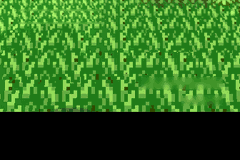
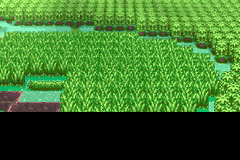
0.17.3: no zoomed tall-grass backdrop anywhere (Route 120 overlook; other tall grass incl. Mew uses the Route 119 overlook)
Claude-Session: https://claude.ai/code/session_014PwRDjXGcLJqqHGfgN6Bdc

diff --git a/src/battle_bg.c b/src/battle_bg.c
@@ -88,7 +88,11 @@ static const struct WJ3DBackdrop *WJ3D_GetBackdrop(u32 environment)
     if (!WJ_3D_BATTLE_BACKGROUNDS || ARRAY_COUNT(sWJ3DBackdrops) == 0 || WJ_ClassicGfx(WJGFX_3D_BACKGROUNDS))
         return NULL;
     if (gBattleTypeFlags & (BATTLE_TYPE_FRONTIER | BATTLE_TYPE_LINK | BATTLE_TYPE_RECORDED_LINK
-                          | BATTLE_TYPE_EREADER_TRAINER | BATTLE_TYPE_LEGENDARY | BATTLE_TYPE_SECRET_BASE))
+                          | BATTLE_TYPE_EREADER_TRAINER | BATTLE_TYPE_SECRET_BASE))
+        return NULL;
+    // Legendary battles keep their own backgrounds, except in tall grass (Mew on Faraway Island),
+    // where the owner wants the tall-grass overlook and never Emerald's old tall-grass picture.
+    if ((gBattleTypeFlags & BATTLE_TYPE_LEGENDARY) && environment != BATTLE_ENVIRONMENT_LONG_GRASS)
         return NULL;
     // Land, caves, indoor wild-battle places (Mt. Pyre's inside, New Mauville) and surfing. Gyms and
     // other special backgrounds keep the stock ones. Only maps with a captured backdrop are affected.
@@ -106,6 +110,18 @@ static const struct WJ3DBackdrop *WJ3D_GetBackdrop(u32 environment)
          && sWJ3DBackdrops[i].mapNum == gSaveBlock1Ptr->location.mapNum
          && WJ3D_EnvironmentMatches(sWJ3DBackdrops[i].environment, environment))
             return &sWJ3DBackdrops[i];
+    }
+    // Tall grass anywhere else (e.g. Faraway Island) uses the Route 119 tall-grass overlook too.
+    if (environment == BATTLE_ENVIRONMENT_LONG_GRASS)
+    {
+        for (i = 0; i < ARRAY_COUNT(sWJ3DBackdrops); i++)
+        {
+            if (sWJ3DBackdrops[i].tiles != NULL
+             && sWJ3DBackdrops[i].mapGroup == MAP_GROUP(MAP_ROUTE119)
+             && sWJ3DBackdrops[i].mapNum == MAP_NUM(MAP_ROUTE119)
+             && sWJ3DBackdrops[i].environment == WJ3D_ANY_ENVIRONMENT)
+                return &sWJ3DBackdrops[i];
+        }
     }
     return NULL;
 }

diff --git a/docs/PROJECT_EMERALD_OVERHAUL.md b/docs/PROJECT_EMERALD_OVERHAUL.md
@@ -95,6 +95,7 @@ All the screens below were recoloured to Emerald green, palette only.
 | 15 | Overworld character shadows | Pawkkie | already built into expansion 1.17 (`OW_OBJECT_VANILLA_SHADOWS FALSE`), nothing to port |
 | 16 | Vol's HGSS-style start menu, green | vol8 `start_menu_1`, HashtagMarky's expansion port | Pokédex icon asks Pokédex/DexNav; Pike/Pyramid/link rooms keep the old menu |
 | 17 | Stat Points (EV allocator), green | Bivurnum `ev-allocator` on TAH's stat editor | no battle EVs; 10 points per level to Lv51; Party → Stat Points; old saves: all EVs reset to 0 once on Continue (in 0.9.3) |
+| 37 | No zoomed tall-grass backdrop anywhere: Route 120 (the only other map with tall grass and the old zoomed capture) now uses an overlook from its 3DS overworld view; any other tall-grass battle without its own backdrop (Faraway Island, incl. the Mew legendary battle) falls back to the Route 119 overlook instead of Emerald's tall-grass picture | ours | Route 120 checked in spring/autumn/winter. Mew battle not reached in a test. In 0.17.3 |
 | 36 | Route 119 tall-grass backdrop is now an overlook (3DS overworld view over the tall grass, river and Weather Institute; player/NPCs painted out, shrunk rather than zoomed), owner picked option B; seasons checked in all 4. Fix: overworld fog (Misty Terrain) and storms (Electric Terrain) no longer swap a 3D backdrop for the stock terrain picture | ours | In 0.17.2 |
 | 35 | Problem 3D backdrops: Phoebe's room, Steven's room, Mirage Tower 4F, Seafloor Cavern 2/8/9, Underwater Routes 124/126 (underwater battles now allowed), Mirage Island, Oceanic Museum 2F, Rustboro City; Abandoned Ship B1F corridor white strip filled; hidden-floor water and Magma Hideout 3F 3R reuse a sibling room's backdrop | ours (Emerald 3DS captures) | The 3DS port runs its own code and only reads our save, so captures set up real encounters (start on grass/seaweed, encounter boost) or the real story battle (flags/vars + trigger). Still stock: Mauville City (Wally) and Space Center 2F (Yes/No prompt needs the 3DS touch screen), Shoal Cave water (no encounter reached). Tested in game: Phoebe, Duncan, Steven's room, Seafloor 2, Rustboro rival. In 0.17.1 |
 | 34 | Options → New/Classic for every new graphic: Battle BG (3D backdrops), Battle Screen (BW UI), Summary (BW), Party Menu (Gen 5), Bag (SwSh), PC Boxes (SwSh), Text Box (SwSh box + name tag), Start Menu, Main Menu, Pokédex (HGSS), Ditto Faces. Saved in SaveBlock3 (`wjGfxMagic`/`wjClassicGfx`); old saves read as all New | ours | `WJ_ClassicGfx(feature)`. BW UI configs are runtime (`WJ_BwBattleUi`), Emerald window templates kept beside the BW ones. Emerald's bag (`item_menu.c`) is built again with its public functions renamed `Classic_*`; the SwSh entry points dispatch to it (Battle Pyramid keeps the SwSh bag). Party/textbox/name-tag Emerald art restored under `graphics/*/classic/`. Emulator: every Classic screen opened (field, start menu, party, summary, bag, wild battle menus/moves/run, Pokédex, PC boxes, nurse text, trainer name tag, save box, main menu → Continue), New screens re-checked. In 0.17.0 |

diff --git a/docs/WALLY_JOURNEY_OWNER_REQUIREMENTS.md b/docs/WALLY_JOURNEY_OWNER_REQUIREMENTS.md
@@ -631,3 +631,4 @@ These are **wishlist items, not claims of implementation**. Adapt the design pri
 | 2026-11-05 | Fixes from play: shiny Stat Points picture, pixelated 3D grass, black boxes when surfing, "on/off in the options to go back to old graphics" (owner: "Make it all toggle-able"), grass rustle should follow the seasons | Shiny picture, surf black boxes and seasonal grass rustle fixed. Options now has New/Classic for each new graphic (11 rows, see overhaul row 34), all checked in the emulator. 3D tall grass: owner will pick between 3 versions at the end (current one kept for now). Also 19 more 3D backdrops (trainer-only maps). Released in 0.17.0 |
 | 2026-11-05 | "Go ahead and start the problem rooms" (owner still deciding on tall grass) | 14 problem maps now have 3D backdrops (overhaul row 35); Mauville City, Space Center 2F and Shoal Cave water keep Emerald's. Before/after PNGs sent. Released in 0.17.1 |
 | 2026-11-05 | Tall grass background: "an overlook over the tall grass", seasons must change; owner chose B | Route 119 now uses overlook B (river + Weather Institute); checked spring/summer/autumn/winter in battle. Found and fixed: foggy days turned 3D backdrops into the pink Misty Terrain picture. Released in 0.17.2 |
+| 2026-11-05 | "I don't want the old tall grass background to be used at all" | Route 120 (also tall grass, also a zoomed capture) now has its own overlook; Faraway Island tall grass (and Mew) uses the Route 119 overlook. Released in 0.17.3 |
